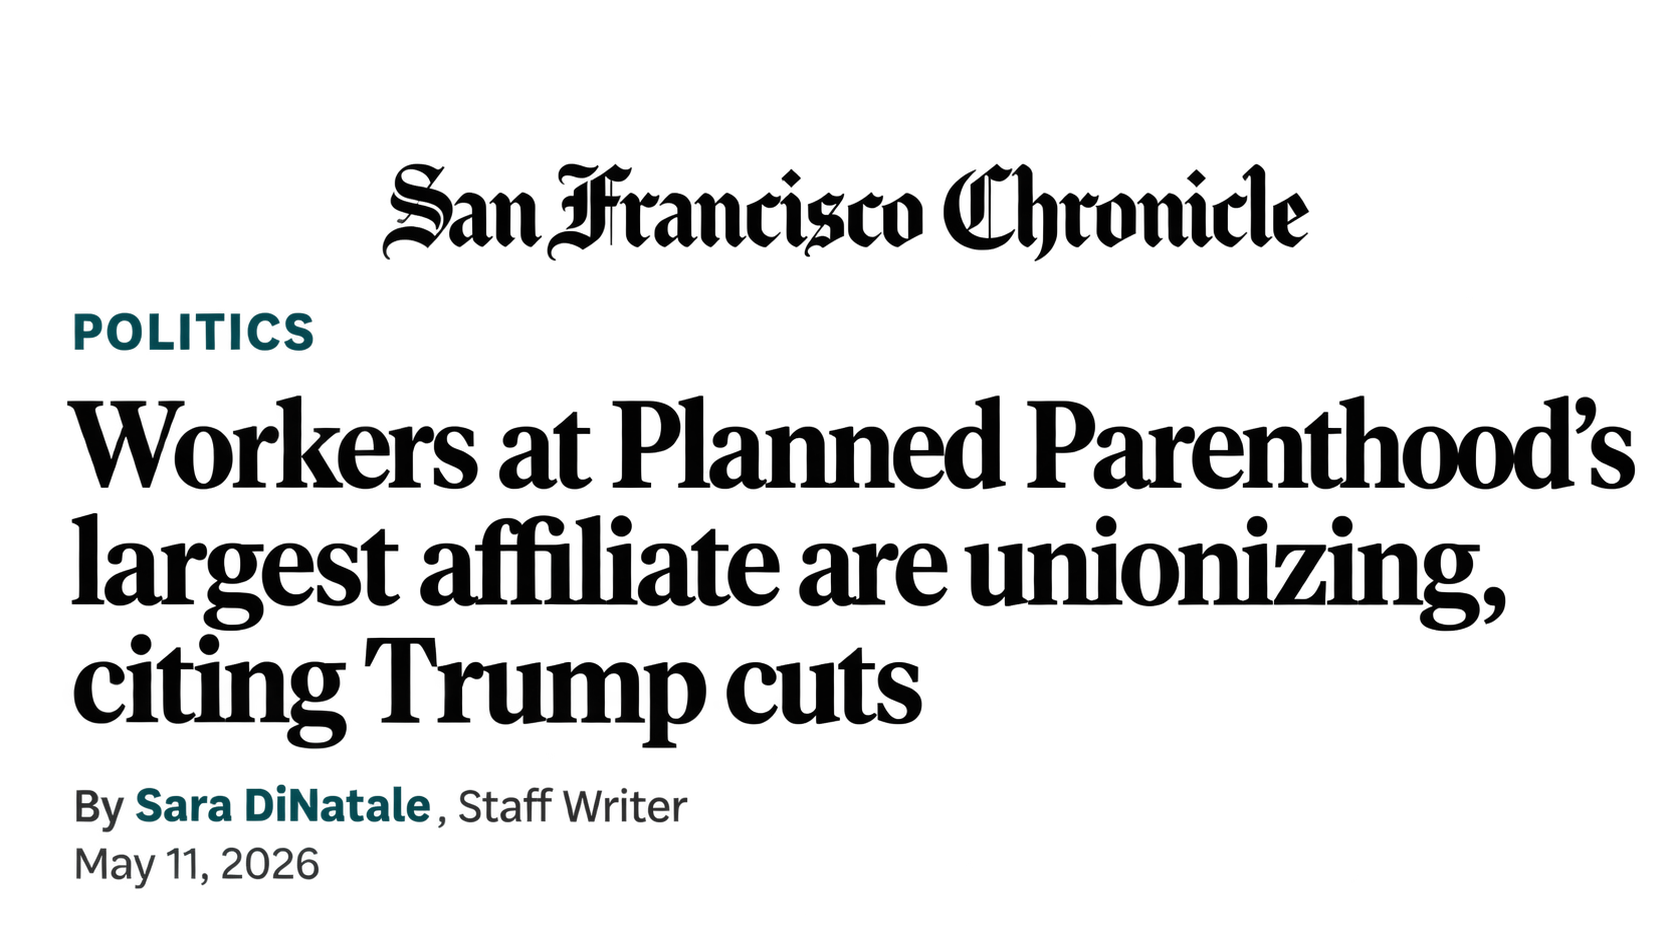
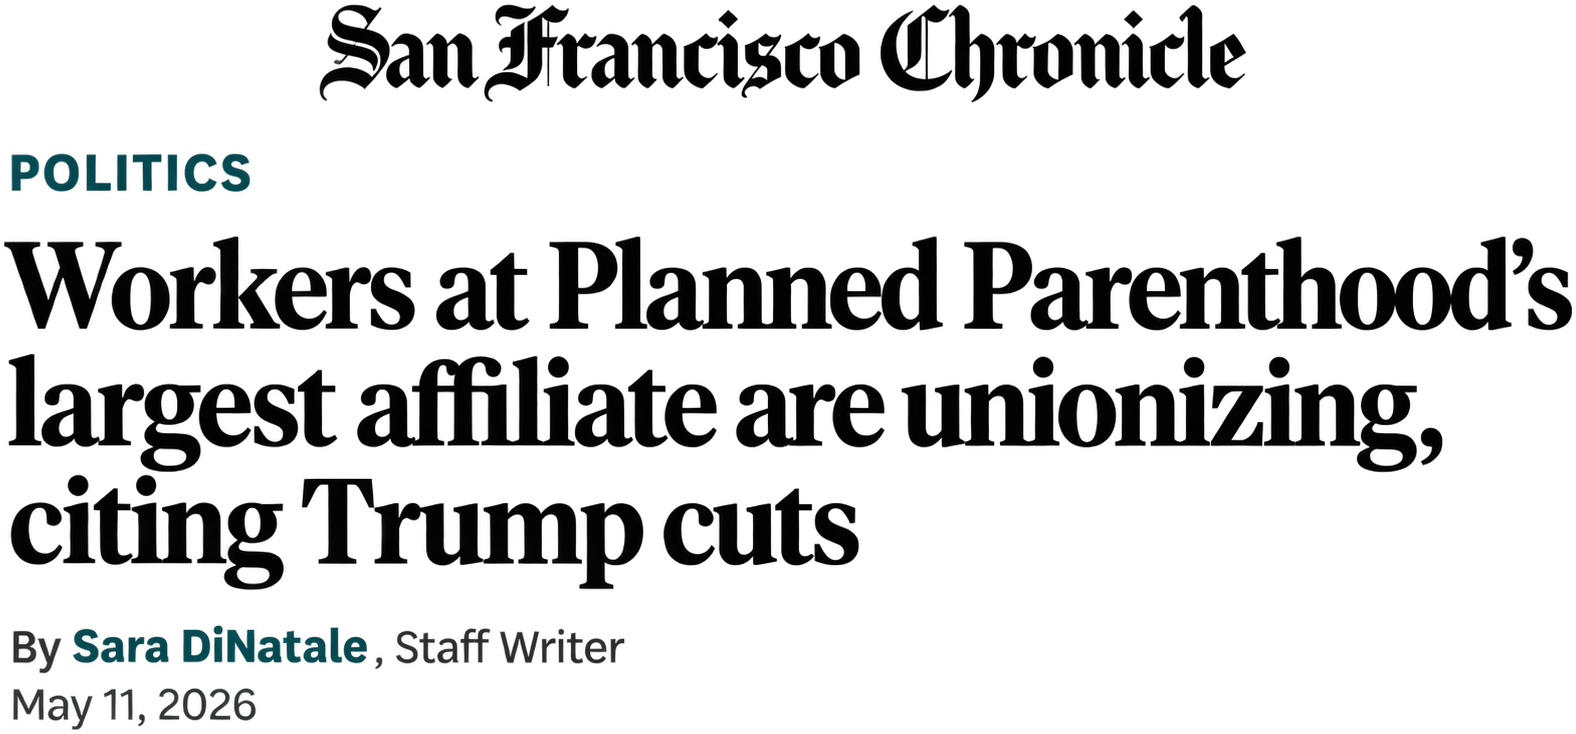
Align news clippings: trim image padding, shared grid, aligned section labels

diff --git a/src/app/news/page.tsx b/src/app/news/page.tsx
@@ -17,16 +17,20 @@ type Article = {
   image: StaticImageData;
   headline: string;
   href: string;
+  // Pixel row in the image where the section label (e.g. "HEALTH") begins.
+  labelTop: number;
 };
 
 const sideArticles: Article[] = [
   {
     image: sfgate,
+    labelTop: 215,
     headline: "SFGATE: Regional: Nurses and others at Planned Parenthood's largest affiliate vote to form union",
     href: "https://www.sfgate.com/news/bayarea/article/regional-workers-at-largest-planned-parenthood-22256377.php",
   },
   {
     image: kget,
+    labelTop: 307,
     headline: "KGET 17: Bakersfield, statewide Planned Parenthood clinic to unionize under SEIU",
     href: "https://www.kget.com/news/local-news/bakersfield-statewide-planned-parenthood-clinic-to-unionize-under-seiu/",
   },
@@ -35,28 +39,36 @@ const sideArticles: Article[] = [
 const bottomArticles: Article[] = [
   {
     image: almanac,
+    labelTop: 251,
     headline: "The Almanac: Nurses and staff at local Planned Parenthood affiliate vote to form union",
     href: "https://www.almanacnews.com/health/2026/05/21/nurses-and-others-at-local-planned-parenthood-affiliate-vote-to-form-union/",
   },
   {
     image: localNewsMatters,
+    labelTop: 249,
     headline: "Local News Matters: Workers at Planned Parenthood's largest affiliate weigh joining SEIU Local 521",
     href: "https://localnewsmatters.org/2026/05/13/planned-parenthood-mar-monte-union-vote/",
   },
   {
     image: sfChronicle,
+    labelTop: 154,
     headline: "San Francisco Chronicle: Workers at Planned Parenthood's largest affiliate are unionizing, citing Trump cuts",
     href: "https://www.sfchronicle.com/politics/article/planned-parenthood-union-medicaid-trump-22249797.php",
   },
 ];
 
-function ArticleLink({ article }: { article: Article }) {
+const labelRatio = (article: Article) => article.labelTop / article.image.width;
+const bottomLabelRatio = Math.max(...bottomArticles.map(labelRatio));
+
+function ArticleLink({ article, alignLabel }: { article: Article; alignLabel?: boolean }) {
+  const offset = alignLabel ? bottomLabelRatio - labelRatio(article) : 0;
   return (
     <a
       href={article.href}
       target="_blank"
       rel="noreferrer"
-      className="block transition-transform hover:-translate-y-1"
+      style={{ "--label-offset": `${offset * 100}%` } as React.CSSProperties}
+      className="block transition-transform hover:-translate-y-1 md:pt-(--label-offset)"
     >
       <Image src={article.image} alt={article.headline} className="h-auto w-full" />
     </a>
@@ -73,31 +85,30 @@ export default function NewsPage() {
         </p>
       </header>
 
-      <section aria-label="News coverage" className="mt-8 flex flex-col gap-6">
-        <div className="flex flex-col gap-6 md:flex-row md:items-start md:gap-9">
-          <div className="flex flex-col gap-1 md:w-[30%]">
-            {sideArticles.map((article) => (
-              <ArticleLink key={article.headline} article={article} />
-            ))}
-          </div>
-          <div className="relative aspect-[877/494] w-full shadow-[0px_10px_10px_0px_rgba(0,0,0,0.25)] md:mt-6 md:flex-1">
-            <Image
-              src={featuredPhoto}
-              alt="Two PPMM Workers United members smiling"
-              fill
-              sizes="(min-width: 768px) 65vw, 100vw"
-              className="object-cover object-top"
-            />
-          </div>
-        </div>
-        <div className="grid gap-6 md:grid-cols-3 md:items-start">
-          {bottomArticles.map((article) => (
+      <section
+        aria-label="News coverage"
+        className="mt-10 grid gap-x-10 gap-y-12 md:grid-cols-3 md:items-start md:px-6"
+      >
+        <div className="flex flex-col gap-12">
+          {sideArticles.map((article) => (
             <ArticleLink key={article.headline} article={article} />
           ))}
         </div>
+        <div className="relative aspect-[877/494] w-full shadow-[0px_10px_10px_0px_rgba(0,0,0,0.25)] md:col-span-2">
+          <Image
+            src={featuredPhoto}
+            alt="Two PPMM Workers United members smiling"
+            fill
+            sizes="(min-width: 768px) 65vw, 100vw"
+            className="object-cover object-top"
+          />
+        </div>
+        {bottomArticles.map((article) => (
+          <ArticleLink key={article.headline} article={article} alignLabel />
+        ))}
       </section>
 
-      <aside className="mt-6 flex flex-col gap-6 rounded-[20px] bg-ink p-6 lg:flex-row lg:items-center lg:justify-between">
+      <aside className="mt-12 flex flex-col gap-6 rounded-[20px] bg-ink p-6 lg:flex-row lg:items-center lg:justify-between">
         <div className="flex max-w-[760px] flex-col gap-2.5">
           <p className="text-2xl font-extrabold text-cream md:text-[32px]">
             Ready to move from election to action?
